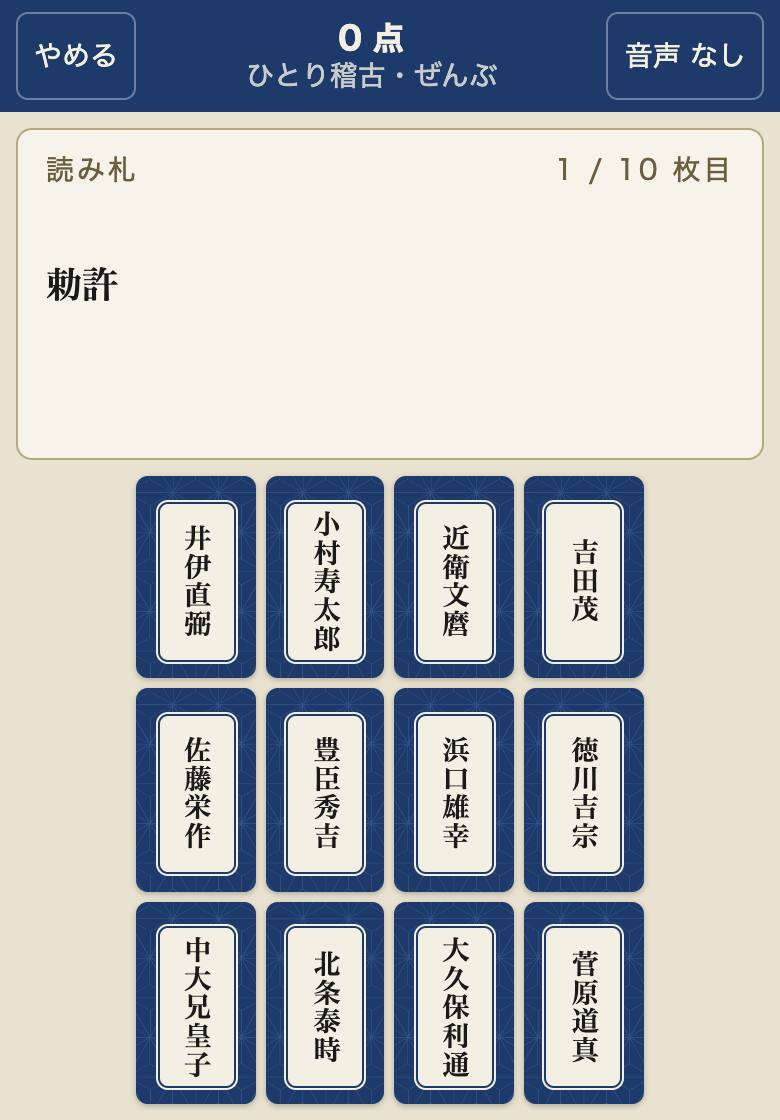
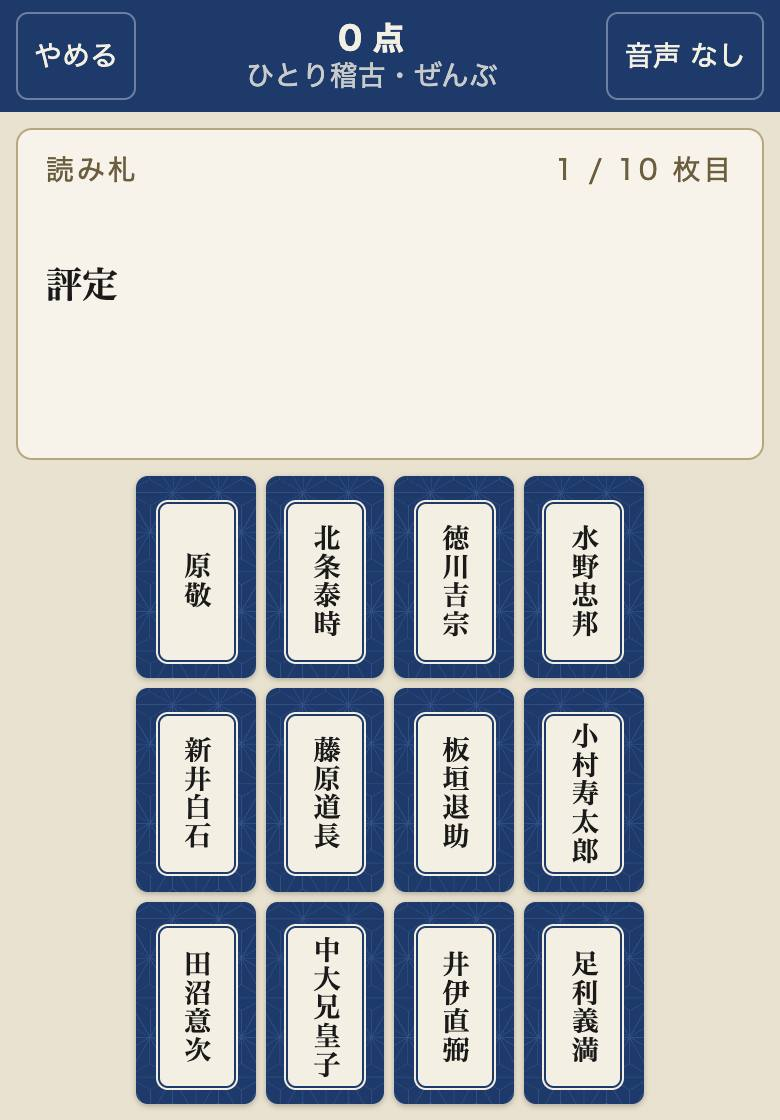
日本史 偉人カルタの説明と画面写真を更新

diff --git a/index.html b/index.html
@@ -180,7 +180,7 @@ footer p{margin:4px 0}
 </footer>
 
 <script>
-const D = {"categories": [{"key": "gakushu", "name": "生徒の学習", "lead": "スマホで取り組む自習用の道場"}, {"key": "annai", "name": "生徒への案内", "lead": "時間割や進路を調べるページ"}, {"key": "bukatsu", "name": "部活動", "lead": "ソフトテニス部・吹奏楽部・試合運営"}, {"key": "koumu", "name": "先生の仕事", "lead": "学級・校務・行事・文章指導の道具"}, {"key": "kenkyu", "name": "研究・情報", "lead": "国語科教育の文献・学会と、成果物の紹介"}, {"key": "kurashi", "name": "暮らし", "lead": "家庭で使うもの"}], "items": [{"repo": "kokugo-dojo", "cat": "gakushu", "title": "国語道場", "lead": "現代文・古文・漢文の道場へ1つのページから入れる、生徒向けの入口。", "points": ["現代文・近代文・実用文・古文・漢文の各道場へのリンク", "アカウント登録なし、開けばすぐ始められる"], "created": "2026-09-23", "pushed": "2026-11-08", "url": "https://upopotennis-gif.github.io/kokugo-dojo/"}, {"repo": "kobun-dojo", "cat": "gakushu", "title": "古文道場", "lead": "古典文法・助動詞の実戦・古文単語・古典常識を4択で鍛えるドリル。", "points": ["文法34単元＋読解、単語は「Look@古文単語337」の番号で範囲指定", "答えるとすぐ解説、間違えた問題は苦手ボックスにたまる"], "created": "2026-09-08", "pushed": "2026-11-08", "url": "https://upopotennis-gif.github.io/kobun-dojo/"}, {"repo": "kanbun-dojo", "cat": "gakushu", "title": "漢文道場", "lead": "漢文の辞典・句形ドリル・背景知識の3ページ。", "points": ["句形・語句・訓読のきまりなど249項目の辞典", "句形10単元×10問、諸子百家や漢詩のきまりの読み物"], "created": "2026-09-16", "pushed": "2026-11-08", "url": "https://upopotennis-gif.github.io/kanbun-dojo/"}, {"repo": "gendaibun-keyword", "cat": "gakushu", "title": "現代文キーワード辞典", "lead": "入試の評論に出るキーワード285語を、引く・覚える・確かめるの3つで使える辞典。", "points": ["8分野から引ける、暗記カードと4択テストつき", "覚えた・あいまいの印で進み具合がわかる"], "created": "2026-09-11", "pushed": "2026-11-08", "url": "https://upopotennis-gif.github.io/gendaibun-keyword/"}, {"repo": "kindai-dojo", "cat": "gakushu", "title": "近代文章道場", "lead": "漱石・鷗外の時代の言葉と背景を学ぶ、高3向けの辞典と入試演習。", "points": ["近代語363語の辞典（用例は青空文庫の本文から）", "入試形式の4択100問と、明治・大正の暮らしの読み物"], "created": "2026-09-28", "pushed": "2026-11-08", "url": "https://upopotennis-gif.github.io/kindai-dojo/"}, {"repo": "jitsuyo-dojo", "cat": "gakushu", "title": "実用文道場", "lead": "共通テスト第3問型の、資料・グラフ・規約を読み取る練習。", "points": ["資料読解8単元160問", "実用文の言葉80問（規約・案内文の言い回し）"], "created": "2026-09-28", "pushed": "2026-11-08", "url": "https://upopotennis-gif.github.io/jitsuyo-dojo/"}, {"repo": "eigo-dojo", "cat": "gakushu", "title": "英語道場", "lead": "英文法・英文解釈・つなぎ言葉・英単語の4択ドリル（試作版）。", "points": ["古文道場と同じ仕組みの姉妹版", "答えるとすぐ和訳と解説が出る"], "created": "2026-09-16", "pushed": "2026-09-27", "url": "https://upopotennis-gif.github.io/eigo-dojo/"}, {"repo": "sugaku-dojo", "cat": "gakushu", "title": "数学道場", "lead": "数学Ⅰ・AとⅡ・B・Cの18単元を4択10問で確かめるドリル（試作版）。", "points": ["途中式つきの解説", "方眼ノートと定規の見た目"], "created": "2026-09-16", "pushed": "2026-09-27", "url": "https://upopotennis-gif.github.io/sugaku-dojo/"}, {"repo": "joho-dojo", "cat": "gakushu", "title": "情報道場", "lead": "情報Ⅰの知識と、計算・プログラムの読み取りの4択ドリル（試作版）。", "points": ["知識8単元／計算・プログラム5単元", "プログラムは共通テスト用プログラム表記"], "created": "2026-09-16", "pushed": "2026-09-27", "url": "https://upopotennis-gif.github.io/joho-dojo/"}, {"repo": "jikanwari-navi", "cat": "annai", "title": "時間割ナビ", "lead": "クラスと選択科目を選ぶと、その日の時間割と教室がわかる生徒向けページ。", "points": ["行事や特別時間割も反映", "選んだ内容はその端末にだけ保存"], "created": "2026-10-04", "pushed": "2026-11-09", "url": "https://upopotennis-gif.github.io/jikanwari-navi/"}, {"repo": "hantei-navi", "cat": "annai", "title": "判定ライン帳 2026", "lead": "共通テストのB判定ライン・入試科目・配点割合を、条件でしぼって見比べるページ。", "points": ["自分の得点率を入れると届く大学の目安がわかる", "系統・地域・国公私立でしぼり込み"], "created": "2026-09-29", "pushed": "2026-10-03", "url": "https://upopotennis-gif.github.io/hantei-navi/"}, {"repo": "softtennis-dojo", "cat": "bukatsu", "title": "ソフトテニス道場", "lead": "高校ソフトテニス部の理論学習サイト。雁行陣のセオリーを読んで、動かして、解いて学ぶ。", "points": ["セオリー講座7章・場面判断のドリル112問", "相手の打点を動かすと立ち位置が変わるポジション練習"], "created": "2026-09-18", "pushed": "2026-11-02", "url": "https://upopotennis-gif.github.io/softtennis-dojo/"}, {"repo": "doubles-record", "cat": "bukatsu", "title": "ダブルス戦績ノート", "lead": "部内・練習試合・大会のダブルスの結果を記録し、個人とペアの勝率を出す。", "points": ["部員みんなで同じ記録帳に書き込める", "自分用・ほかの部の記録帳も作れる"], "created": "2026-10-10", "pushed": "2026-10-31", "url": "https://upopotennis-gif.github.io/doubles-record/"}, {"repo": "league-maker", "cat": "bukatsu", "title": "リーグ対戦表メーカー", "lead": "ダブルスのリーグ分けから対戦表の印刷、結果の入力と順位づけまで。", "points": ["高体連の対戦表の書式で印刷", "大会番号で複数の端末から結果を入力"], "created": "2026-09-27", "pushed": "2026-10-12", "url": "https://upopotennis-gif.github.io/league-maker/"}, {"repo": "form-check", "cat": "bukatsu", "title": "フォームチェック", "lead": "ソフトテニスのフォーム動画に骨格線とラケットの軌跡を重ね、2本を並べて比べる。", "points": ["インパクトの瞬間をそろえて A/B 比較", "動画は端末の中だけで処理し、送信しない"], "created": "2026-10-04", "pushed": "2026-10-04", "url": "https://upopotennis-gif.github.io/form-check/"}, {"repo": "gakuten-dojo", "cat": "bukatsu", "title": "楽典道場", "lead": "吹奏楽部の初心者が楽典を自習する4択ドリルと、学習会のスライド。", "points": ["13単元260問、楽譜と鍵盤の図つき", "1回15分・年間35回の学習会スライド"], "created": "2026-09-17", "pushed": "2026-09-17", "url": "https://upopotennis-gif.github.io/gakuten-dojo/"}, {"repo": "handball-schedule", "cat": "bukatsu", "title": "ハンドボール進行表", "lead": "練習試合の進行表を作り、番号で共有するページ。", "points": ["チーム数・コート数・試合時間から、連戦の少ない組み合わせを自動で作る", "A4の進行表とチーム別の表を印刷"], "created": "2026-09-27", "pushed": "2026-09-27", "url": "https://upopotennis-gif.github.io/handball-schedule/"}, {"repo": "sekigae-board", "cat": "koumu", "title": "席替えボード", "lead": "名簿を貼るだけで、条件つきの席替えと座席表ができる。", "points": ["離したい組み合わせ・前方配慮を満たす配置を自動で作る", "名簿はそのパソコンの中だけで扱う"], "created": "2026-09-14", "pushed": "2026-09-15", "url": "https://upopotennis-gif.github.io/sekigae-board/"}, {"repo": "survey-analyzer", "cat": "koumu", "title": "アンケート集計ボード", "lead": "アンケートのCSV・Excelを置くだけで、グラフと自由記述の分類ができる。", "points": ["選択式はグラフ、自由記述は内容ごとに分類", "要確認の回答を抜き出す"], "created": "2026-09-14", "pushed": "2026-09-16", "url": "https://upopotennis-gif.github.io/survey-analyzer/"}, {"repo": "jikanwari-navi-staff", "cat": "koumu", "title": "時間割ナビ 教員用", "lead": "先生向けの時間割・教室・行事の確認ページ。", "points": ["校内の先生だけが使う（合言葉つき）", "授業の重なりや教室の確認に"], "created": "2026-10-04", "pushed": "2026-11-09", "url": "https://upopotennis-gif.github.io/jikanwari-navi-staff/"}, {"repo": "sotsuron-akapen", "cat": "koumu", "title": "卒論 赤ペンチェック", "lead": "卒業論文のWordを入れると、体裁を確かめて赤ペンのPDFで返す。", "points": ["先生はクラス分をまとめて入れて一覧にできる", "ファイルはブラウザの中だけで読み、送信しない"], "created": "2026-09-29", "pushed": "2026-09-29", "url": "https://upopotennis-gif.github.io/sotsuron-akapen/"}, {"repo": "tensaku-gemini", "cat": "koumu", "title": "出願書類の添削室（Gemini版）", "lead": "志望理由書などの添削を、学校のGeminiに頼むための依頼文を作るページ。", "points": ["大学・学部のアドミッション・ポリシーの要点を入れる", "生徒の名前は伏せ字にしてから渡す"], "created": "2026-10-02", "pushed": "2026-10-02", "url": "https://upopotennis-gif.github.io/tensaku-gemini/"}, {"repo": "kissa-register", "cat": "koumu", "title": "喫茶レジ", "lead": "文化祭の喫茶で使う販売レジ。複数のタブレットで注文・在庫・売上を共有。", "points": ["担当ごとの使い方ガイドつき", "イベントコードで団体ごとに分かれる"], "created": "2026-09-03", "pushed": "2026-09-16", "url": "https://upopotennis-gif.github.io/kissa-register/"}, {"repo": "kokugo-dougubako", "cat": "kenkyu", "title": "渡邊梢太の国語資料", "lead": "国語の先生向けに公開しているページの一覧。", "points": ["授業の教材・研究・文章指導の道具を紹介", "このページの国語版"], "created": "2026-10-04", "pushed": "2026-10-04", "url": "https://upopotennis-gif.github.io/kokugo-dougubako/"}, {"repo": "kokugo-kenkyukai-info", "cat": "kenkyu", "title": "国語科 学会・研究会カレンダー", "lead": "国語科教育に関わる9団体の、これから開かれる学会・研究会の一覧。", "points": ["毎日自動で更新", "自分のカレンダーに登録できる"], "created": "2026-09-13", "pushed": "2026-11-10", "url": "https://upopotennis-gif.github.io/kokugo-kenkyukai-info/"}, {"repo": "seika-tenbou", "cat": "kenkyu", "title": "成果と展望 文献案内", "lead": "『国語科教育学研究の成果と展望Ⅱ・Ⅲ』の参考文献、約2,800件を章ごとに引ける。", "points": ["無料で読めるものだけに絞れる", "選んだ文献をリストにしてコピー"], "created": "2026-09-27", "pushed": "2026-09-28", "url": "https://upopotennis-gif.github.io/seika-tenbou/"}, {"repo": "kozure-biyori", "cat": "kurashi", "title": "こづれ日和", "lead": "川崎市内の駅から、子連れで行けるおでかけ先を探すページ。", "points": ["南武線・東横線など5路線16駅から選ぶ", "外遊び・屋内・食事の施設と、月ごとのイベント"], "created": "2026-10-04", "pushed": "2026-10-04", "url": "https://upopotennis-gif.github.io/kozure-biyori/"}, {"repo": "mahoshiba", "cat": "gakushu", "title": "まほしば早押し", "lead": "助動詞・助詞の接続の表「まほしば」をスマホで覚える10問の早押しクイズ。", "points": ["何形につく？（ば・なり・たりは2つセットで選ぶ）と呪文の穴うめ", "速いほど高得点、自己ベストをその端末に保存"], "created": "2026-10-23", "pushed": "2026-10-25", "url": "https://upopotennis-gif.github.io/mahoshiba/"}, {"repo": "suisen-shitagaki", "cat": "koumu", "title": "推薦書 下書きメーカー", "lead": "インタビューの書き起こしと資料から、推薦書の下書き用にAIへ渡す指示文を組み立ててコピーするページ。", "points": ["材料の整理／下書きと確認シート／仕上げ の3種類の指示文", "足りない事実は【①】の空欄にさせる。入力は保存しない"], "created": "2026-10-28", "pushed": "2026-10-28", "url": "https://upopotennis-gif.github.io/suisen-shitagaki/"}, {"repo": "ai-kenshu-houkoku", "cat": "kenkyu", "title": "生成AI活用研修の報告", "lead": "校外の教職員向け生成AI活用研修の内容を、同僚の先生向けに専門用語なしでまとめた報告ページ。", "points": ["研修で紹介された使い方と、学校で試せる最初の一歩", "印刷用のPDFつき"]}, {"repo": "mochigoma-board", "cat": "koumu", "title": "持ち駒検討ボード", "lead": "教科の次年度の持ち駒（誰がどの授業を何コマ持つか）を、案をいくつも作って点検・見比べできる表。", "points": ["マスを押すとメイン・TTが入り、上限超えや担当のいない授業を自動で点検", "案を複製して見比べ。先生の名前が入ったデータは合言葉で開く"], "created": "2026-11-10", "pushed": "2026-11-11", "url": "https://upopotennis-gif.github.io/mochigoma-board/"}, {"repo": "nihonshi-karuta", "cat": "gakushu", "title": "日本史 偉人カルタ", "lead": "入試頻出の50人を、読み札を聞いて早く取るカルタで覚える、高3の受験勉強用サイト。", "points": ["読み札が1文字ずつ出て、早く取るほど高得点。ひとり稽古とCPU対戦（弱・中・強）", "場は名前の面か肖像の面。間違えた札は苦手札として次に出やすくなる"], "created": "2026-11-11", "pushed": "2026-11-11", "url": "https://upopotennis-gif.github.io/nihonshi-karuta/"}], "built": "2026-11-11"};
+const D = {"categories": [{"key": "gakushu", "name": "生徒の学習", "lead": "スマホで取り組む自習用の道場"}, {"key": "annai", "name": "生徒への案内", "lead": "時間割や進路を調べるページ"}, {"key": "bukatsu", "name": "部活動", "lead": "ソフトテニス部・吹奏楽部・試合運営"}, {"key": "koumu", "name": "先生の仕事", "lead": "学級・校務・行事・文章指導の道具"}, {"key": "kenkyu", "name": "研究・情報", "lead": "国語科教育の文献・学会と、成果物の紹介"}, {"key": "kurashi", "name": "暮らし", "lead": "家庭で使うもの"}], "items": [{"repo": "kokugo-dojo", "cat": "gakushu", "title": "国語道場", "lead": "現代文・古文・漢文の道場へ1つのページから入れる、生徒向けの入口。", "points": ["現代文・近代文・実用文・古文・漢文の各道場へのリンク", "アカウント登録なし、開けばすぐ始められる"], "created": "2026-09-23", "pushed": "2026-11-08", "url": "https://upopotennis-gif.github.io/kokugo-dojo/"}, {"repo": "kobun-dojo", "cat": "gakushu", "title": "古文道場", "lead": "古典文法・助動詞の実戦・古文単語・古典常識を4択で鍛えるドリル。", "points": ["文法34単元＋読解、単語は「Look@古文単語337」の番号で範囲指定", "答えるとすぐ解説、間違えた問題は苦手ボックスにたまる"], "created": "2026-09-08", "pushed": "2026-11-08", "url": "https://upopotennis-gif.github.io/kobun-dojo/"}, {"repo": "kanbun-dojo", "cat": "gakushu", "title": "漢文道場", "lead": "漢文の辞典・句形ドリル・背景知識の3ページ。", "points": ["句形・語句・訓読のきまりなど249項目の辞典", "句形10単元×10問、諸子百家や漢詩のきまりの読み物"], "created": "2026-09-16", "pushed": "2026-11-08", "url": "https://upopotennis-gif.github.io/kanbun-dojo/"}, {"repo": "gendaibun-keyword", "cat": "gakushu", "title": "現代文キーワード辞典", "lead": "入試の評論に出るキーワード285語を、引く・覚える・確かめるの3つで使える辞典。", "points": ["8分野から引ける、暗記カードと4択テストつき", "覚えた・あいまいの印で進み具合がわかる"], "created": "2026-09-11", "pushed": "2026-11-08", "url": "https://upopotennis-gif.github.io/gendaibun-keyword/"}, {"repo": "kindai-dojo", "cat": "gakushu", "title": "近代文章道場", "lead": "漱石・鷗外の時代の言葉と背景を学ぶ、高3向けの辞典と入試演習。", "points": ["近代語363語の辞典（用例は青空文庫の本文から）", "入試形式の4択100問と、明治・大正の暮らしの読み物"], "created": "2026-09-28", "pushed": "2026-11-08", "url": "https://upopotennis-gif.github.io/kindai-dojo/"}, {"repo": "jitsuyo-dojo", "cat": "gakushu", "title": "実用文道場", "lead": "共通テスト第3問型の、資料・グラフ・規約を読み取る練習。", "points": ["資料読解8単元160問", "実用文の言葉80問（規約・案内文の言い回し）"], "created": "2026-09-28", "pushed": "2026-11-08", "url": "https://upopotennis-gif.github.io/jitsuyo-dojo/"}, {"repo": "eigo-dojo", "cat": "gakushu", "title": "英語道場", "lead": "英文法・英文解釈・つなぎ言葉・英単語の4択ドリル（試作版）。", "points": ["古文道場と同じ仕組みの姉妹版", "答えるとすぐ和訳と解説が出る"], "created": "2026-09-16", "pushed": "2026-09-27", "url": "https://upopotennis-gif.github.io/eigo-dojo/"}, {"repo": "sugaku-dojo", "cat": "gakushu", "title": "数学道場", "lead": "数学Ⅰ・AとⅡ・B・Cの18単元を4択10問で確かめるドリル（試作版）。", "points": ["途中式つきの解説", "方眼ノートと定規の見た目"], "created": "2026-09-16", "pushed": "2026-09-27", "url": "https://upopotennis-gif.github.io/sugaku-dojo/"}, {"repo": "joho-dojo", "cat": "gakushu", "title": "情報道場", "lead": "情報Ⅰの知識と、計算・プログラムの読み取りの4択ドリル（試作版）。", "points": ["知識8単元／計算・プログラム5単元", "プログラムは共通テスト用プログラム表記"], "created": "2026-09-16", "pushed": "2026-09-27", "url": "https://upopotennis-gif.github.io/joho-dojo/"}, {"repo": "jikanwari-navi", "cat": "annai", "title": "時間割ナビ", "lead": "クラスと選択科目を選ぶと、その日の時間割と教室がわかる生徒向けページ。", "points": ["行事や特別時間割も反映", "選んだ内容はその端末にだけ保存"], "created": "2026-10-04", "pushed": "2026-11-09", "url": "https://upopotennis-gif.github.io/jikanwari-navi/"}, {"repo": "hantei-navi", "cat": "annai", "title": "判定ライン帳 2026", "lead": "共通テストのB判定ライン・入試科目・配点割合を、条件でしぼって見比べるページ。", "points": ["自分の得点率を入れると届く大学の目安がわかる", "系統・地域・国公私立でしぼり込み"], "created": "2026-09-29", "pushed": "2026-10-03", "url": "https://upopotennis-gif.github.io/hantei-navi/"}, {"repo": "softtennis-dojo", "cat": "bukatsu", "title": "ソフトテニス道場", "lead": "高校ソフトテニス部の理論学習サイト。雁行陣のセオリーを読んで、動かして、解いて学ぶ。", "points": ["セオリー講座7章・場面判断のドリル112問", "相手の打点を動かすと立ち位置が変わるポジション練習"], "created": "2026-09-18", "pushed": "2026-11-02", "url": "https://upopotennis-gif.github.io/softtennis-dojo/"}, {"repo": "doubles-record", "cat": "bukatsu", "title": "ダブルス戦績ノート", "lead": "部内・練習試合・大会のダブルスの結果を記録し、個人とペアの勝率を出す。", "points": ["部員みんなで同じ記録帳に書き込める", "自分用・ほかの部の記録帳も作れる"], "created": "2026-10-10", "pushed": "2026-10-31", "url": "https://upopotennis-gif.github.io/doubles-record/"}, {"repo": "league-maker", "cat": "bukatsu", "title": "リーグ対戦表メーカー", "lead": "ダブルスのリーグ分けから対戦表の印刷、結果の入力と順位づけまで。", "points": ["高体連の対戦表の書式で印刷", "大会番号で複数の端末から結果を入力"], "created": "2026-09-27", "pushed": "2026-10-12", "url": "https://upopotennis-gif.github.io/league-maker/"}, {"repo": "form-check", "cat": "bukatsu", "title": "フォームチェック", "lead": "ソフトテニスのフォーム動画に骨格線とラケットの軌跡を重ね、2本を並べて比べる。", "points": ["インパクトの瞬間をそろえて A/B 比較", "動画は端末の中だけで処理し、送信しない"], "created": "2026-10-04", "pushed": "2026-10-04", "url": "https://upopotennis-gif.github.io/form-check/"}, {"repo": "gakuten-dojo", "cat": "bukatsu", "title": "楽典道場", "lead": "吹奏楽部の初心者が楽典を自習する4択ドリルと、学習会のスライド。", "points": ["13単元260問、楽譜と鍵盤の図つき", "1回15分・年間35回の学習会スライド"], "created": "2026-09-17", "pushed": "2026-09-17", "url": "https://upopotennis-gif.github.io/gakuten-dojo/"}, {"repo": "handball-schedule", "cat": "bukatsu", "title": "ハンドボール進行表", "lead": "練習試合の進行表を作り、番号で共有するページ。", "points": ["チーム数・コート数・試合時間から、連戦の少ない組み合わせを自動で作る", "A4の進行表とチーム別の表を印刷"], "created": "2026-09-27", "pushed": "2026-09-27", "url": "https://upopotennis-gif.github.io/handball-schedule/"}, {"repo": "sekigae-board", "cat": "koumu", "title": "席替えボード", "lead": "名簿を貼るだけで、条件つきの席替えと座席表ができる。", "points": ["離したい組み合わせ・前方配慮を満たす配置を自動で作る", "名簿はそのパソコンの中だけで扱う"], "created": "2026-09-14", "pushed": "2026-09-15", "url": "https://upopotennis-gif.github.io/sekigae-board/"}, {"repo": "survey-analyzer", "cat": "koumu", "title": "アンケート集計ボード", "lead": "アンケートのCSV・Excelを置くだけで、グラフと自由記述の分類ができる。", "points": ["選択式はグラフ、自由記述は内容ごとに分類", "要確認の回答を抜き出す"], "created": "2026-09-14", "pushed": "2026-09-16", "url": "https://upopotennis-gif.github.io/survey-analyzer/"}, {"repo": "jikanwari-navi-staff", "cat": "koumu", "title": "時間割ナビ 教員用", "lead": "先生向けの時間割・教室・行事の確認ページ。", "points": ["校内の先生だけが使う（合言葉つき）", "授業の重なりや教室の確認に"], "created": "2026-10-04", "pushed": "2026-11-09", "url": "https://upopotennis-gif.github.io/jikanwari-navi-staff/"}, {"repo": "sotsuron-akapen", "cat": "koumu", "title": "卒論 赤ペンチェック", "lead": "卒業論文のWordを入れると、体裁を確かめて赤ペンのPDFで返す。", "points": ["先生はクラス分をまとめて入れて一覧にできる", "ファイルはブラウザの中だけで読み、送信しない"], "created": "2026-09-29", "pushed": "2026-09-29", "url": "https://upopotennis-gif.github.io/sotsuron-akapen/"}, {"repo": "tensaku-gemini", "cat": "koumu", "title": "出願書類の添削室（Gemini版）", "lead": "志望理由書などの添削を、学校のGeminiに頼むための依頼文を作るページ。", "points": ["大学・学部のアドミッション・ポリシーの要点を入れる", "生徒の名前は伏せ字にしてから渡す"], "created": "2026-10-02", "pushed": "2026-10-02", "url": "https://upopotennis-gif.github.io/tensaku-gemini/"}, {"repo": "kissa-register", "cat": "koumu", "title": "喫茶レジ", "lead": "文化祭の喫茶で使う販売レジ。複数のタブレットで注文・在庫・売上を共有。", "points": ["担当ごとの使い方ガイドつき", "イベントコードで団体ごとに分かれる"], "created": "2026-09-03", "pushed": "2026-09-16", "url": "https://upopotennis-gif.github.io/kissa-register/"}, {"repo": "kokugo-dougubako", "cat": "kenkyu", "title": "渡邊梢太の国語資料", "lead": "国語の先生向けに公開しているページの一覧。", "points": ["授業の教材・研究・文章指導の道具を紹介", "このページの国語版"], "created": "2026-10-04", "pushed": "2026-10-04", "url": "https://upopotennis-gif.github.io/kokugo-dougubako/"}, {"repo": "kokugo-kenkyukai-info", "cat": "kenkyu", "title": "国語科 学会・研究会カレンダー", "lead": "国語科教育に関わる9団体の、これから開かれる学会・研究会の一覧。", "points": ["毎日自動で更新", "自分のカレンダーに登録できる"], "created": "2026-09-13", "pushed": "2026-11-10", "url": "https://upopotennis-gif.github.io/kokugo-kenkyukai-info/"}, {"repo": "seika-tenbou", "cat": "kenkyu", "title": "成果と展望 文献案内", "lead": "『国語科教育学研究の成果と展望Ⅱ・Ⅲ』の参考文献、約2,800件を章ごとに引ける。", "points": ["無料で読めるものだけに絞れる", "選んだ文献をリストにしてコピー"], "created": "2026-09-27", "pushed": "2026-09-28", "url": "https://upopotennis-gif.github.io/seika-tenbou/"}, {"repo": "kozure-biyori", "cat": "kurashi", "title": "こづれ日和", "lead": "川崎市内の駅から、子連れで行けるおでかけ先を探すページ。", "points": ["南武線・東横線など5路線16駅から選ぶ", "外遊び・屋内・食事の施設と、月ごとのイベント"], "created": "2026-10-04", "pushed": "2026-10-04", "url": "https://upopotennis-gif.github.io/kozure-biyori/"}, {"repo": "mahoshiba", "cat": "gakushu", "title": "まほしば早押し", "lead": "助動詞・助詞の接続の表「まほしば」をスマホで覚える10問の早押しクイズ。", "points": ["何形につく？（ば・なり・たりは2つセットで選ぶ）と呪文の穴うめ", "速いほど高得点、自己ベストをその端末に保存"], "created": "2026-10-23", "pushed": "2026-10-25", "url": "https://upopotennis-gif.github.io/mahoshiba/"}, {"repo": "suisen-shitagaki", "cat": "koumu", "title": "推薦書 下書きメーカー", "lead": "インタビューの書き起こしと資料から、推薦書の下書き用にAIへ渡す指示文を組み立ててコピーするページ。", "points": ["材料の整理／下書きと確認シート／仕上げ の3種類の指示文", "足りない事実は【①】の空欄にさせる。入力は保存しない"], "created": "2026-10-28", "pushed": "2026-10-28", "url": "https://upopotennis-gif.github.io/suisen-shitagaki/"}, {"repo": "ai-kenshu-houkoku", "cat": "kenkyu", "title": "生成AI活用研修の報告", "lead": "校外の教職員向け生成AI活用研修の内容を、同僚の先生向けに専門用語なしでまとめた報告ページ。", "points": ["研修で紹介された使い方と、学校で試せる最初の一歩", "印刷用のPDFつき"]}, {"repo": "mochigoma-board", "cat": "koumu", "title": "持ち駒検討ボード", "lead": "教科の次年度の持ち駒（誰がどの授業を何コマ持つか）を、案をいくつも作って点検・見比べできる表。", "points": ["マスを押すとメイン・TTが入り、上限超えや担当のいない授業を自動で点検", "案を複製して見比べ。先生の名前が入ったデータは合言葉で開く"], "created": "2026-11-10", "pushed": "2026-11-11", "url": "https://upopotennis-gif.github.io/mochigoma-board/"}, {"repo": "nihonshi-karuta", "cat": "gakushu", "title": "日本史 偉人カルタ", "lead": "入試頻出の100人を、読み札を聞いて早く取るカルタで覚える、高3の受験勉強用サイト。", "points": ["ひとり稽古・CPU対戦のほか、合言葉で入る友だち対戦（2〜4人）と教室大会", "場は名前の面か肖像の面。間違えた札は苦手札として次に出やすくなる"], "created": "2026-11-11", "pushed": "2026-11-11", "url": "https://upopotennis-gif.github.io/nihonshi-karuta/"}], "built": "2026-11-11"};
 const CATS = Object.fromEntries(D.categories.map(c => [c.key, c]));
 const ITEMS = D.items.filter(i => i.created);
 const SPINE = {"出願書類の添削室（Gemini版）":"出願書類の添削室","国語科 学会・研究会カレンダー":"学会・研究会カレンダー","成果と展望 文献案内":"成果と展望 文献案内","判定ライン帳 2026":"判定ライン帳"};
